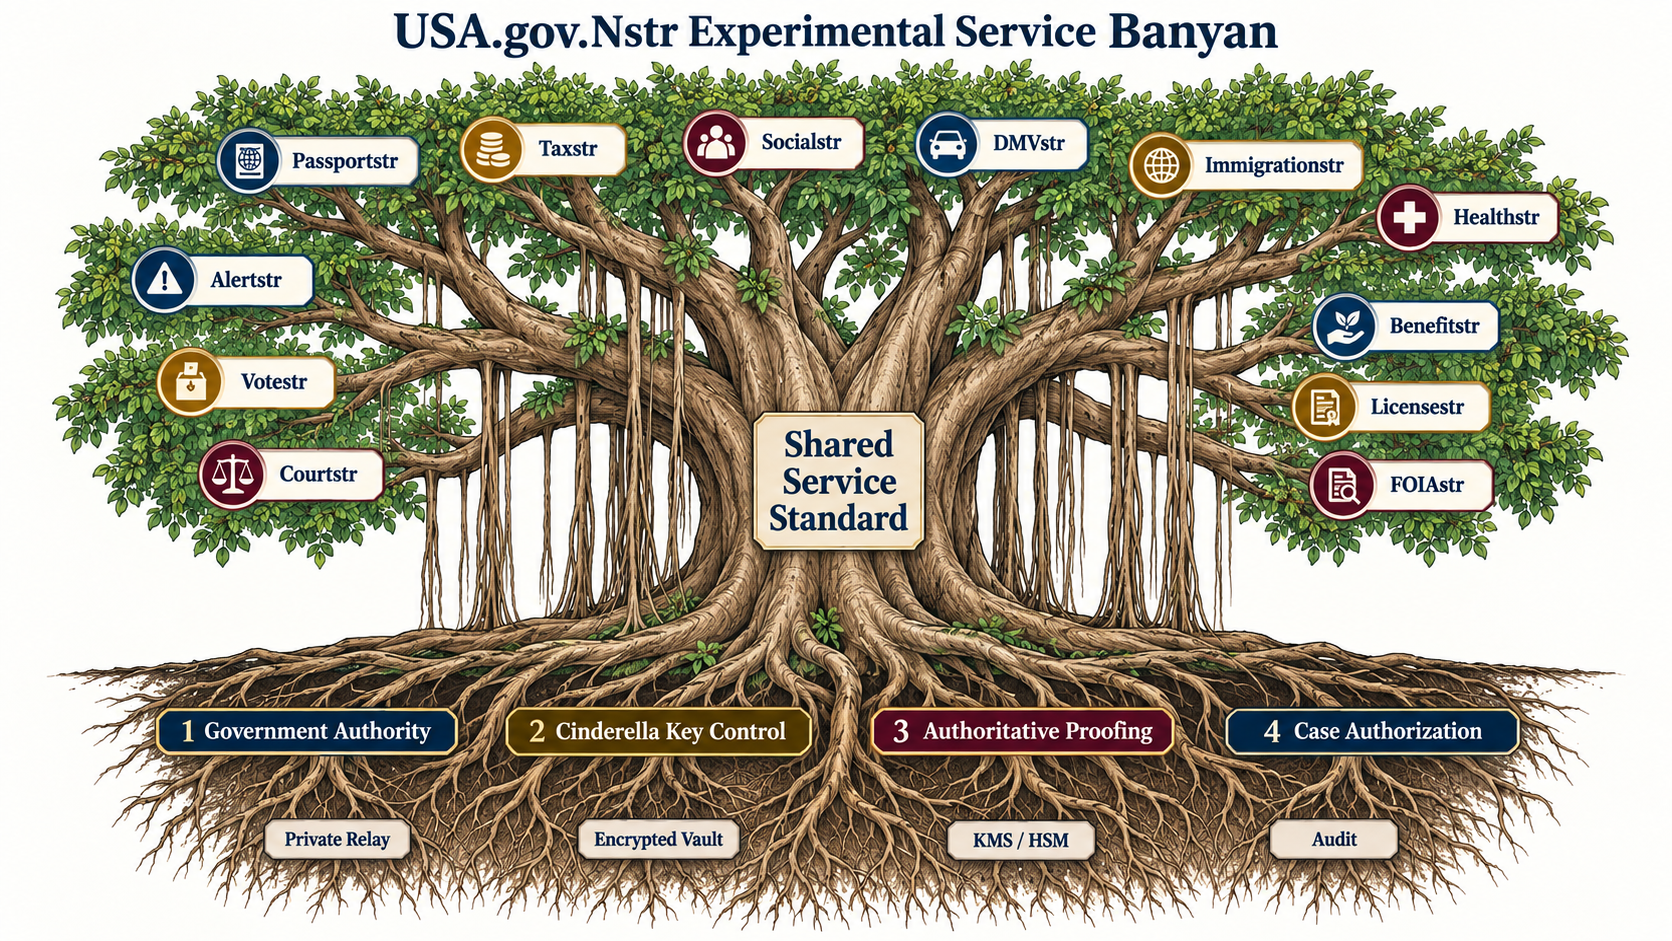
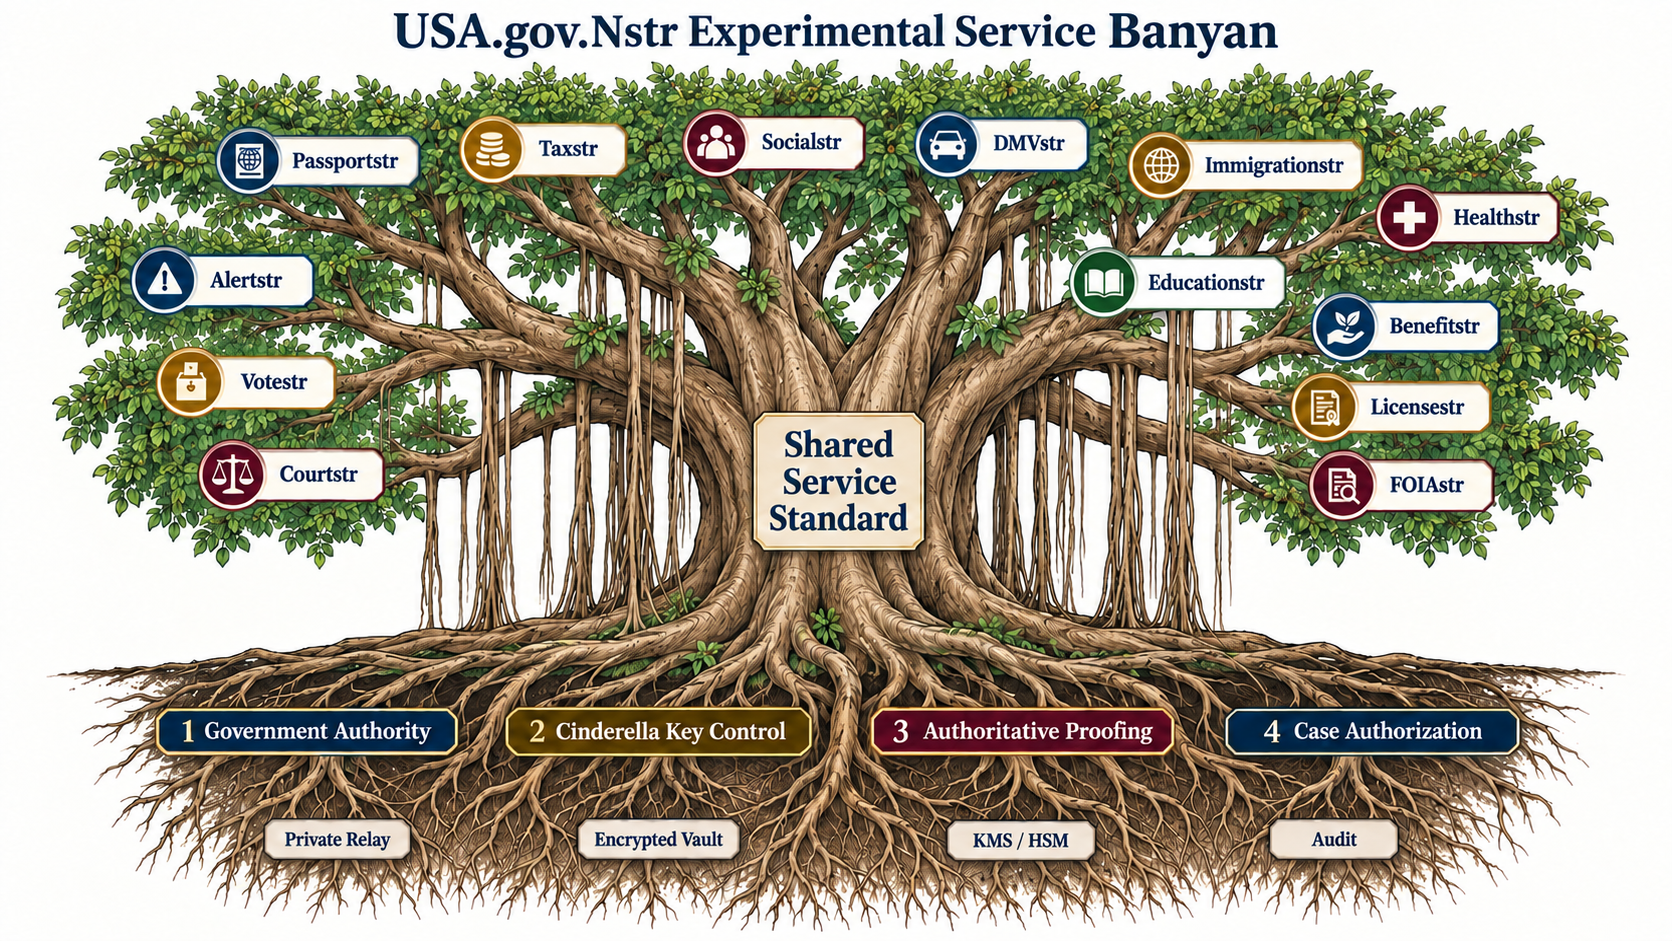
Add Educationstr to USA.gov.Nstr catalog

Changed region(s): [[0.0311, 0.0308, 0.9641, 0.9862], [0.7153, 0.0308, 0.7464, 0.0616], [0.2799, 0.0308, 0.311, 0.0616]]

diff --git a/src/web/usa-gov-nstr.html b/src/web/usa-gov-nstr.html
@@ -30,11 +30,11 @@
         <h1 id="hero-title">USA.gov.Nstr</h1>
         <p class="hero-copy">Signed public services without turning a public key into citizenship, or a relay into a government database.</p>
         <div class="hero-actions">
-          <a class="primary-action" href="#services">Explore 12 services</a>
+          <a class="primary-action" href="#services">Explore 13 services</a>
           <a class="secondary-action" href="#system-map">View the system map</a>
         </div>
         <dl class="hero-facts" aria-label="Architecture summary">
-          <div><dt>12</dt><dd>service branches</dd></div>
+          <div><dt>13</dt><dd>service branches</dd></div>
           <div><dt>4</dt><dd>identity layers</dd></div>
           <div><dt>0</dt><dd>personal records on relays</dd></div>
         </dl>
@@ -75,7 +75,7 @@
         </div>
       </div>
       <figure class="banyan-figure">
-        <img src="/usa-gov-nstr-banyan.png" width="1672" height="941" alt="Banyan tree diagram showing twelve public-service branches, a shared service standard trunk, four identity roots, and private relay, encrypted vault, KMS or HSM, and audit foundations.">
+        <img src="/usa-gov-nstr-banyan.png" width="1672" height="941" alt="Banyan tree diagram showing thirteen public-service branches, a shared service standard trunk, four identity roots, and private relay, encrypted vault, KMS or HSM, and audit foundations.">
         <figcaption>Conceptual architecture. Service branches remain independently governed by their responsible jurisdictions.</figcaption>
       </figure>
     </section>
@@ -96,6 +96,7 @@
           <article class="service-card" data-scope="federal"><p>State Department</p><h3>Passportstr</h3><span>First-time adult passport book</span></article>
           <article class="service-card" data-scope="federal"><p>Internal Revenue Service</p><h3>Taxstr</h3><span>Individual tax transcript request</span></article>
           <article class="service-card" data-scope="federal"><p>Social Security Administration</p><h3>Socialstr</h3><span>Replacement Social Security card</span></article>
+          <article class="service-card" data-scope="federal"><p>Department of Education</p><h3>Educationstr</h3><span>Submitted FAFSA status and next actions</span></article>
           <article class="service-card" data-scope="regional"><p>State or territory</p><h3>DMVstr</h3><span>Eligible adult license renewal</span></article>
           <article class="service-card" data-scope="federal"><p>USCIS</p><h3>Immigrationstr</h3><span>Private case-status tracking</span></article>
           <article class="service-card" data-scope="regional"><p>State or local health</p><h3>Healthstr</h3><span>Official immunization record request</span></article>

diff --git a/docs/usa-gov-nstr/EDUCATIONSTR-ARCHITECTURE.md b/docs/usa-gov-nstr/EDUCATIONSTR-ARCHITECTURE.md
@@ -1,0 +1,102 @@
+# Educationstr Architecture
+
+## Selected Service
+
+Educationstr initially supports one Department of Education service: private
+status and next-action tracking for an already-submitted Free Application for
+Federal Student Aid (FAFSA). It does not submit or correct a FAFSA, calculate
+eligibility, make an aid award, disburse funds, or expose education or financial
+records on Nostr.
+
+## Four Identification Layers
+
+1. **Government authority:** the registry verifies Department of Education,
+   Federal Student Aid, and Educationstr operational keys.
+2. **Cryptographic control:** Cinderella controls a service-scoped case key for
+   the student.
+3. **Authoritative proofing:** Federal Student Aid verifies the student's
+   identity and access to the submitted FAFSA record. A Nostr key is not proof
+   of identity, enrollment, aid eligibility, or account ownership.
+4. **Case authorization:** every status subscription is bound to one FAFSA
+   submission, award year, student role, event scope, and expiration.
+
+## Workflow
+
+1. The student verifies the Educationstr service key against the official
+   registry.
+2. The workstation creates a new case key and signs
+   `link-fafsa-status-intent` through Cinderella `2-of-3` approval.
+3. The Federal Student Aid gateway collects account and submission identifiers
+   through a protected HTTPS flow, never through a relay event.
+4. Federal Student Aid authenticates the student and verifies access to the
+   submitted FAFSA.
+5. The gateway creates an opaque case alias and signs `application-linked` or
+   `manual-review-required`.
+6. Authorized systems publish minimal signed transitions such as `in-review`,
+   `action-required`, `processed`, or `closed`.
+7. When available, the FAFSA Submission Summary and detailed next actions
+   remain in the protected government system; the relay carries only
+   `protected-summary-ready` or `protected-action-ready`.
+8. The student signs a fresh, provider-aware NIP-98 request to retrieve each
+   protected item from the authorized gateway.
+9. Corrections, verification documents, contributor actions, school changes,
+   and financial-aid acceptance remain outside v1. Educationstr may point the
+   student to the official workflow but cannot execute it.
+10. The student may unlink the notification channel without changing the FAFSA
+    or the Federal Student Aid account.
+
+## Event Contract
+
+- `link-fafsa-status-intent`
+- `application-linked`
+- `manual-review-required`
+- `application-status`
+- `protected-summary-ready`
+- `protected-action-ready`
+- `protected-item-retrieved`
+- `subscription-unlinked`
+- `application-closed`
+
+No name, date of birth, Social Security number, address, contributor identity,
+income or tax data, Student Aid Index, school list, aid estimate, verification
+detail, FAFSA answer, document, account identifier, or submission identifier is
+placed on a relay.
+
+## Cinderella Policy
+
+- Link or unlink application status: student `2-of-3`
+- Retrieve protected summary or next action: fresh challenge, provider-aware
+  NIP-98 authorization, and active case authorization
+- Publish status: registered Federal Student Aid role quorum
+- Change FAFSA data or submit documents: excluded from v1
+- Recovery: Cinderella continuity plus separate Federal Student Aid account and
+  case proofing
+
+## Policy Boundaries
+
+- Relay status is informational; the official Federal Student Aid record and
+  school-issued financial-aid offer control.
+- Educationstr must not infer or announce eligibility, award amount, enrollment,
+  verification reason, or adverse outcome from a generic status.
+- Contributors cannot use the student's Educationstr authorization to access
+  the FAFSA Submission Summary.
+- A recovered or replacement Nostr key does not regain FAFSA access until
+  Federal Student Aid reauthorizes the case binding.
+- Existing StudentAid.gov, telephone, accessibility, and paper-assisted channels
+  remain available.
+
+## Success Criteria
+
+A synthetic student privately links one fake submitted FAFSA, receives ordered
+signed status updates, retrieves a protected fake summary notice with a fresh
+provider-aware NIP-98 request, and unlinks notifications without exposing
+student, contributor, school, tax, eligibility, or application data on a relay.
+
+## Official References
+
+- Federal Student Aid, "FAFSA Submission Summary: What You Need To Know":
+  https://studentaid.gov/articles/fafsa-submission-summary/
+- Federal Student Aid, "What Happens After You Submit the FAFSA Form?":
+  https://studentaid.gov/articles/things-after-fafsa/
+- Federal Student Aid, "7 Key Facts About Your StudentAid.gov Account":
+  https://studentaid.gov/articles/key-facts-accounts/

diff --git a/docs/usa-gov-nstr/USA-GOV-NSTR-SERVICE-CATALOG.md b/docs/usa-gov-nstr/USA-GOV-NSTR-SERVICE-CATALOG.md
@@ -17,6 +17,7 @@ The shared policy is defined in
 | Passportstr | Federal | First-time adult passport book | [Passportstr](./PASSPORTSTR-ARCHITECTURE.md) |
 | Taxstr | Federal | Request an individual tax transcript | [Taxstr](./TAXSTR-ARCHITECTURE.md) |
 | Socialstr | Federal | Request a replacement Social Security card | [Socialstr](./SOCIALSTR-ARCHITECTURE.md) |
+| Educationstr | Federal | Track a submitted FAFSA and required next actions | [Educationstr](./EDUCATIONSTR-ARCHITECTURE.md) |
 | DMVstr | State or territory | Renew an eligible adult driver's license | [DMVstr](./DMVSTR-ARCHITECTURE.md) |
 | Immigrationstr | Federal | Privately track an existing USCIS case | [Immigrationstr](./IMMIGRATIONSTR-ARCHITECTURE.md) |
 | Healthstr | State or local | Request an official immunization record | [Healthstr](./HEALTHSTR-ARCHITECTURE.md) |
@@ -33,6 +34,7 @@ The initial portfolio deliberately covers different government structures:
 
 - Federal identity and document services
 - Federal tax administration
+- Federal student-aid application communication
 - Federal immigration case communication
 - Federal court administration
 - Federal records access
@@ -98,8 +100,8 @@ A proposed service branch is not accepted into the catalog until it defines:
 - No public relay for citizen case activity
 - No universal citizen key shared across services
 - No automated adverse government decision
-- No ballot, vote choice, SSN, passport number, tax record, health record,
-  immigration record, benefit record, court response, or license evidence on a
-  Nostr relay
+- No ballot, vote choice, SSN, passport number, tax record, student-aid record,
+  health record, immigration record, benefit record, court response, or license
+  evidence on a Nostr relay
 - No claim that cryptographic validity equals legal validity
 - No removal of existing accessibility, mail, telephone, or in-person channels

diff --git a/docs/usa-gov-nstr/README.md b/docs/usa-gov-nstr/README.md
@@ -9,8 +9,8 @@ at `http://localhost:3000/usa-gov-nstr.html`.
 
 It is a research and engineering proposal, not an official United States
 government system. The documents use synthetic workflows and do not authorize
-real passport, tax, identity, immigration, health, voting, court, benefit,
-licensing, emergency, or public-record actions.
+real passport, tax, identity, student-aid, immigration, health, voting, court,
+benefit, licensing, emergency, or public-record actions.
 
 ![USA.gov.Nstr service architecture visualized as a banyan tree](./USA-GOV-NSTR-BANYAN.png)
 
@@ -41,6 +41,7 @@ service designers, operators, auditors, and the public.
 - [Passportstr](./PASSPORTSTR-ARCHITECTURE.md)
 - [Taxstr](./TAXSTR-ARCHITECTURE.md)
 - [Socialstr](./SOCIALSTR-ARCHITECTURE.md)
+- [Educationstr](./EDUCATIONSTR-ARCHITECTURE.md)
 - [DMVstr](./DMVSTR-ARCHITECTURE.md)
 - [Immigrationstr](./IMMIGRATIONSTR-ARCHITECTURE.md)
 - [Healthstr](./HEALTHSTR-ARCHITECTURE.md)

diff --git a/docs/usa-gov-nstr/USA-GOV-NSTR-ARCHITECTURE.md b/docs/usa-gov-nstr/USA-GOV-NSTR-ARCHITECTURE.md
@@ -29,6 +29,7 @@ Examples:
 | Passport service | Passportstr | Passport applications, renewal notices, appointment confirmations |
 | Tax service | Taxstr | Tax notices, payment receipts, filing confirmations |
 | Social Security service | Socialstr | Benefit status, official notices, identity-bound updates |
+| Federal student aid service | Educationstr | Submitted FAFSA status and protected next-action notices |
 | DMV service | DMVstr | License renewal, vehicle registration, appointment events |
 | Immigration service | Immigrationstr | Case receipts, biometric appointments, status notices |
 | Public health service | Healthstr | Vaccine records, clinic appointments, emergency notices |
